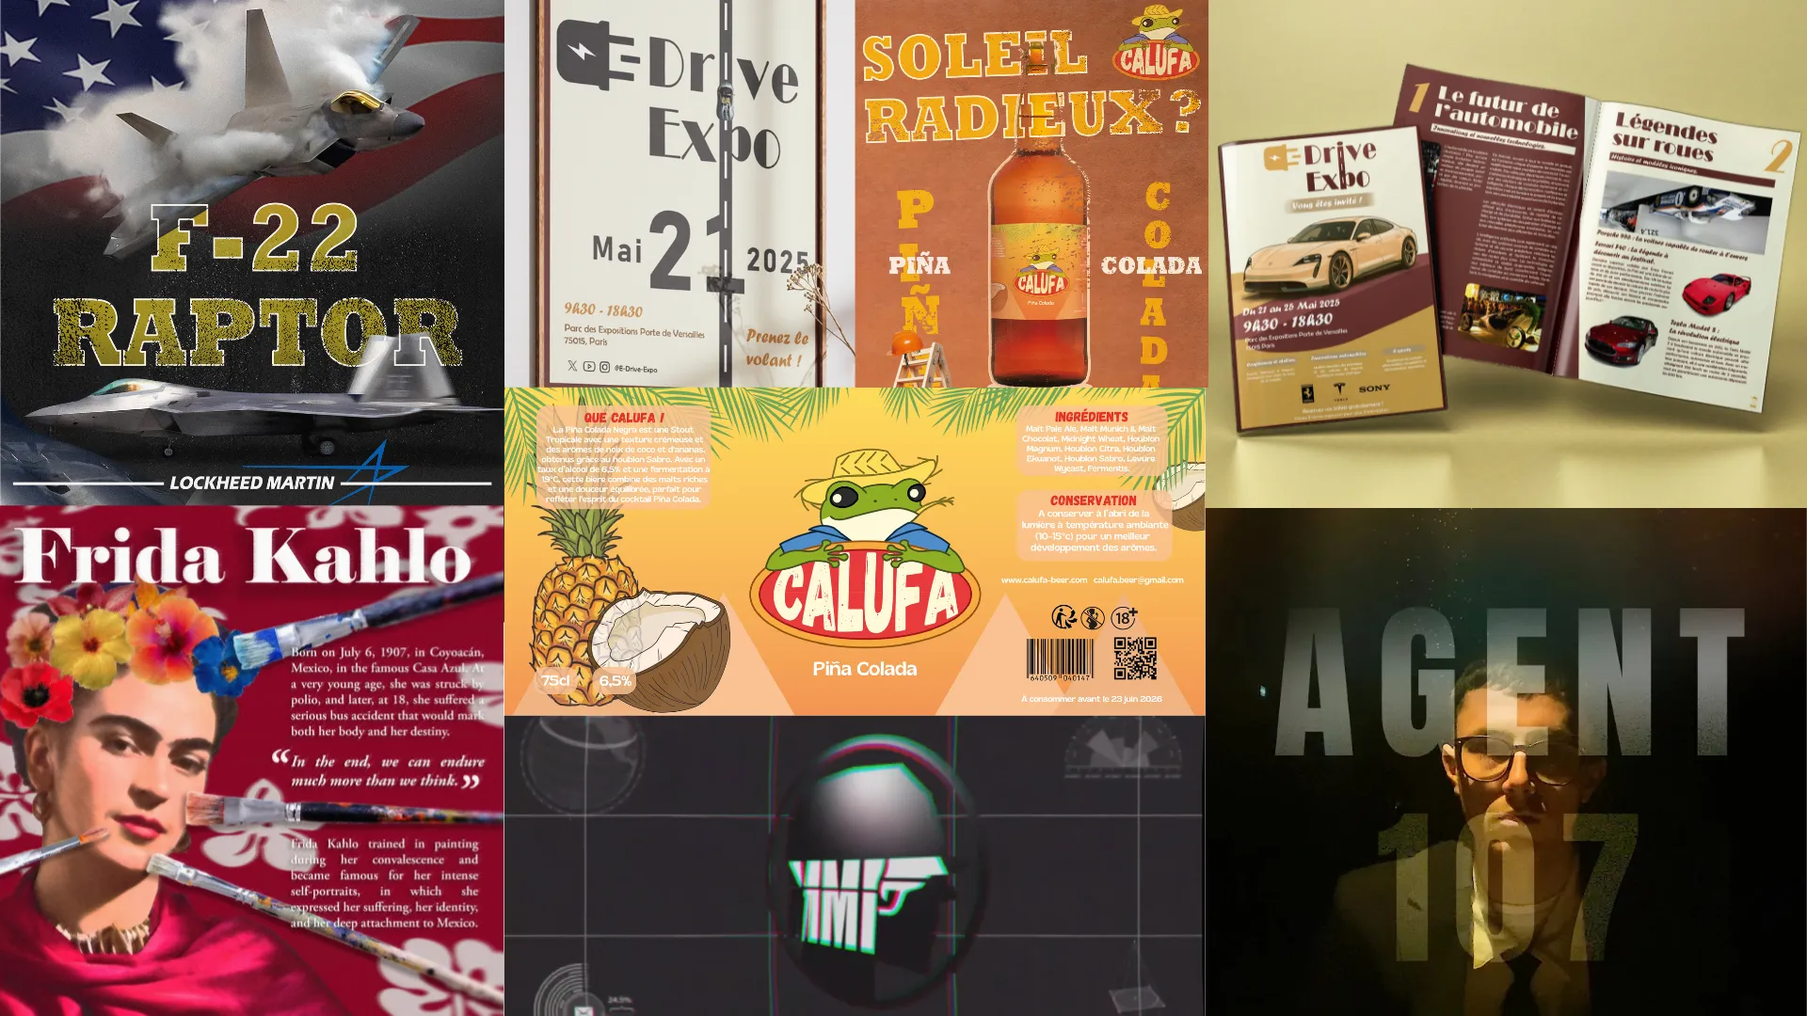
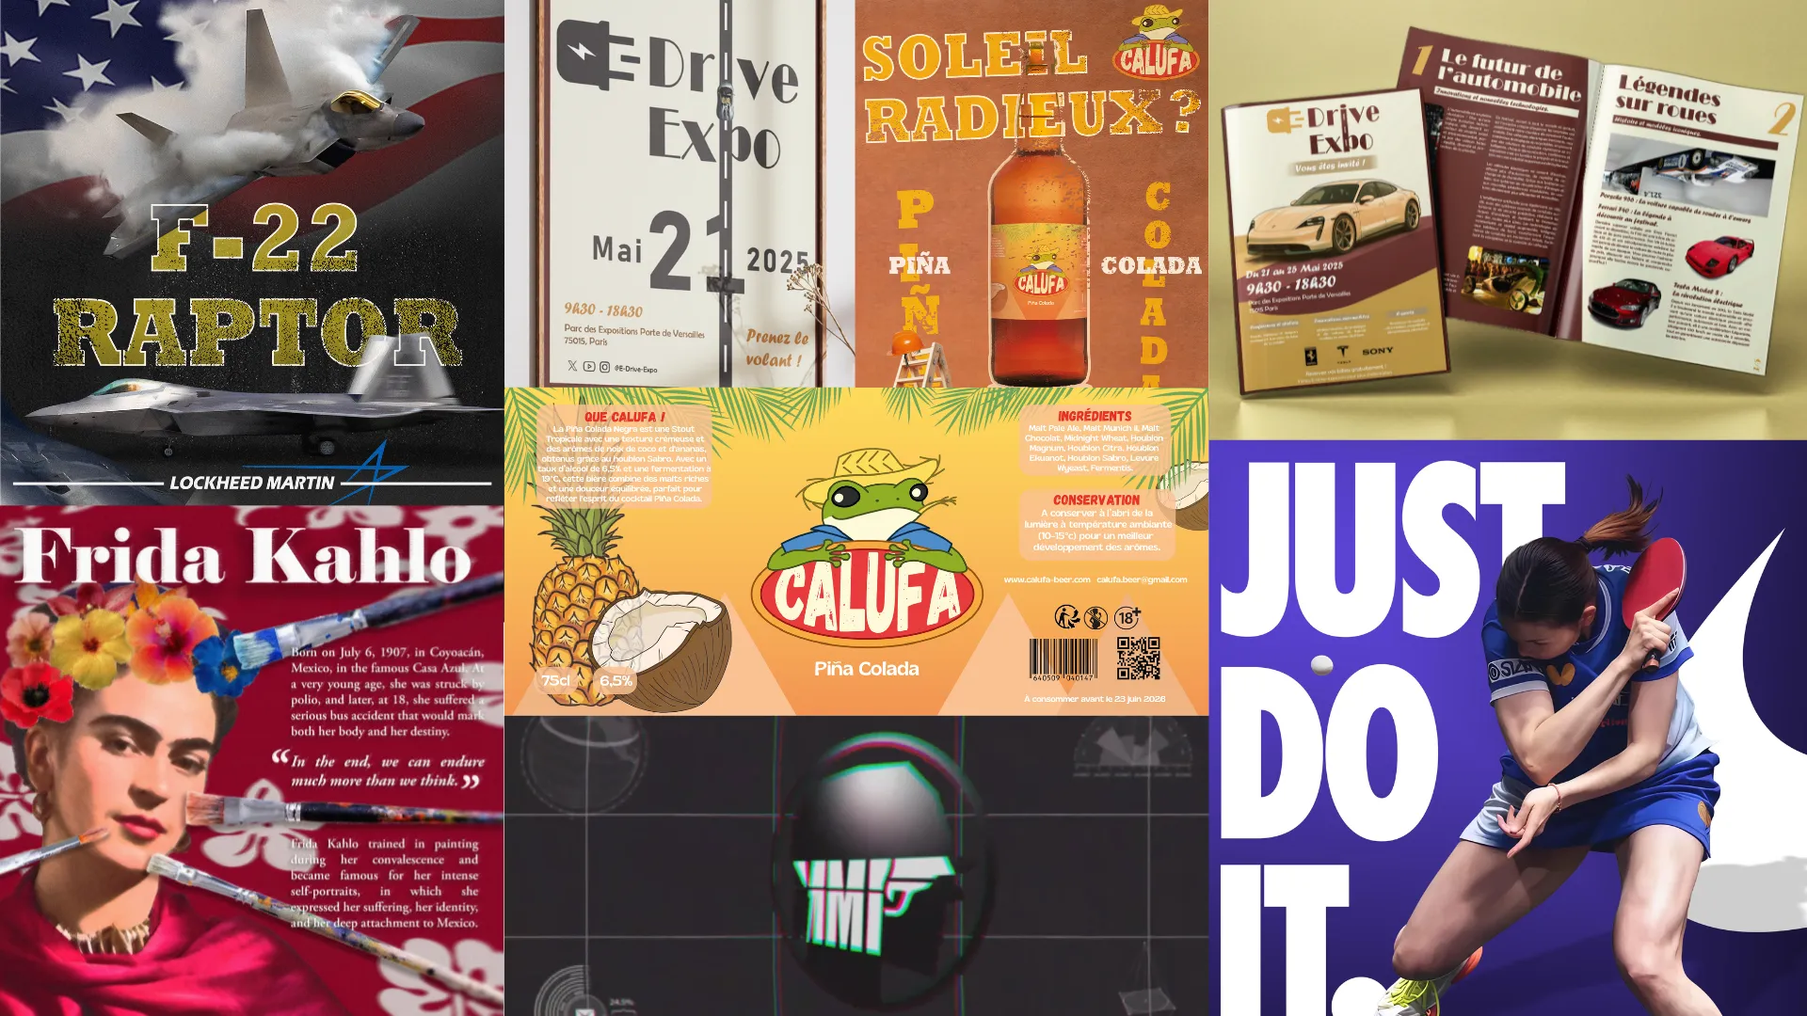
Update

diff --git a/index.html b/index.html
@@ -296,168 +296,219 @@
 
             <div class="grid sm:grid-cols-2 lg:grid-cols-3 gap-4 md:gap-6">
 
-                <div class="group relative aspect-[4/5] sm:aspect-[3/4] overflow-hidden cursor-pointer rounded-sm border border-white/5 fade-up"
+                <div class="group relative aspect-[100/141] overflow-hidden cursor-pointer rounded-sm border border-white/5 fade-up"
                     style="will-change: transform, opacity;" onclick="openImageModal('images/affiche_f22raptor.webp')">
 
                     <img src="images/affiche_f22raptor.webp" alt="F-22 Raptor poster"
-                        class="w-full h-full object-cover object-[center_0%] transition-transform duration-700 opacity-90 group-hover:opacity-100">
+                        class="w-full h-full object-cover object-[center_0%] transition-opacity duration-700 opacity-90 group-hover:opacity-100">
 
-                    <div class="absolute inset-0 bg-gradient-to-t from-black via-black/20 to-transparent opacity-90">
-                    </div>
+                    <div class="absolute inset-0 bg-gradient-to-t from-black via-black/20 to-transparent 
+                opacity-0 group-hover:opacity-90 transition-opacity duration-500"></div>
 
                     <div class="absolute inset-0 p-6 md:p-8 flex flex-col justify-between">
-                        <div
-                            class="flex justify-between items-start opacity-0 group-hover:opacity-100 transition-all duration-500 -translate-y-4 group-hover:translate-y-0">
+
+                        <div class="flex justify-between items-start 
+                    opacity-0 group-hover:opacity-100 
+                    -translate-y-4 group-hover:translate-y-0 
+                    transition-all duration-500">
                             <span
-                                class="px-3 py-1 bg-white/10 backdrop-blur-md rounded-full text-[10px] uppercase tracking-widest text-white border border-white/10">2025</span>
+                                class="px-3 py-1 bg-white/10 backdrop-blur-md rounded-full text-[10px] uppercase tracking-widest text-white border border-white/10">
+                                2025
+                            </span>
                             <span
                                 class="iconify text-white rotate-45 group-hover:rotate-0 transition-transform duration-500"
                                 data-icon="lucide:arrow-up-right" data-width="20"></span>
                         </div>
 
-                        <div class="translate-y-4 group-hover:translate-y-0 transition-transform duration-500">
+                        <div class="opacity-0 group-hover:opacity-100 
+                    translate-y-4 group-hover:translate-y-0 
+                    transition-all duration-500">
                             <p class="text-red-500 text-[10px] md:text-xs font-mono uppercase tracking-widest mb-1">
-                                Affiche</p>
+                                Affiche
+                            </p>
                             <h3 class="text-lg md:text-2xl font-semibold text-white tracking-tight">F-22 Raptor</h3>
                         </div>
+
                     </div>
                 </div>
 
-                <div class="group relative aspect-[4/5] sm:aspect-[3/4] overflow-hidden cursor-pointer rounded-sm border border-white/5 fade-up"
+                <div class="group relative aspect-[100/141] overflow-hidden cursor-pointer rounded-sm border border-white/5 fade-up"
                     style="will-change: transform, opacity;" onclick="openImageModal('images/affiche_frida.webp')">
 
-                    <img src="images/affiche_frida.webp" alt="Frida Kahlo poster"
-                        class="w-full h-full object-cover object-[center_0%] transition-transform duration-700 opacity-90 group-hover:opacity-100">
+                    <img src="images/affiche_frida.webp" alt="Affiche Frida Kahlo"
+                        class="w-full h-full object-cover object-[center_0%] transition-opacity duration-700 opacity-90 group-hover:opacity-100">
 
-                    <div class="absolute inset-0 bg-gradient-to-t from-black via-black/20 to-transparent opacity-90">
-                    </div>
+                    <div class="absolute inset-0 bg-gradient-to-t from-black via-black/20 to-transparent 
+                opacity-0 group-hover:opacity-90 transition-opacity duration-500"></div>
 
                     <div class="absolute inset-0 p-6 md:p-8 flex flex-col justify-between">
-                        <div
-                            class="flex justify-between items-start opacity-0 group-hover:opacity-100 transition-all duration-500 -translate-y-4 group-hover:translate-y-0">
+
+                        <div class="flex justify-between items-start 
+                    opacity-0 group-hover:opacity-100 
+                    -translate-y-4 group-hover:translate-y-0 
+                    transition-all duration-500">
                             <span
-                                class="px-3 py-1 bg-white/10 backdrop-blur-md rounded-full text-[10px] uppercase tracking-widest text-white border border-white/10">2026</span>
+                                class="px-3 py-1 bg-white/10 backdrop-blur-md rounded-full text-[10px] uppercase tracking-widest text-white border border-white/10">
+                                2026
+                            </span>
                             <span
                                 class="iconify text-white rotate-45 group-hover:rotate-0 transition-transform duration-500"
                                 data-icon="lucide:arrow-up-right" data-width="20"></span>
                         </div>
 
-                        <div class="translate-y-4 group-hover:translate-y-0 transition-transform duration-500">
+                        <div class="opacity-0 group-hover:opacity-100 
+                    translate-y-4 group-hover:translate-y-0 
+                    transition-all duration-500">
                             <p class="text-red-500 text-[10px] md:text-xs font-mono uppercase tracking-widest mb-1">
-                                Affiche</p>
+                                Affiche
+                            </p>
                             <h3 class="text-lg md:text-2xl font-semibold text-white tracking-tight">Frida Kahlo</h3>
                         </div>
                     </div>
                 </div>
 
-                <div class="group relative aspect-[4/5] sm:aspect-[3/4] overflow-hidden cursor-pointer rounded-sm border border-white/5 fade-up"
-                    style="will-change: transform, opacity;" onclick="openVideoModal('YqXMrFlvo8U')">
+                <div class="group relative aspect-[100/141] overflow-hidden cursor-pointer rounded-sm border border-white/5 fade-up"
+                    style="will-change: transform, opacity;" onclick="openImageModal('images/affiche_pingpong.webp')">
 
-                    <video autoplay loop muted playsinline preload="none" loading="lazy" class="absolute top-1/2 left-1/2 w-full h-full object-cover -translate-x-1/2 -translate-y-1/2">
-                        <source src="images/bandemissionp.mp4" type="video/mp4">
-                    </video>
+                    <img src="images/affiche_pingpong.webp" alt="Affiche Just do it"
+                        class="w-full h-full object-cover object-[center_0%] transition-opacity duration-700 opacity-90 group-hover:opacity-100">
 
-                    <div class="absolute inset-0 bg-gradient-to-t from-black via-black/20 to-transparent opacity-90">
-                    </div>
+                    <div class="absolute inset-0 bg-gradient-to-t from-black via-black/20 to-transparent 
+                opacity-0 group-hover:opacity-90 transition-opacity duration-500"></div>
 
                     <div class="absolute inset-0 p-6 md:p-8 flex flex-col justify-between">
-                        <div
-                            class="flex justify-between items-start opacity-0 group-hover:opacity-100 transition-all duration-500 -translate-y-4 group-hover:translate-y-0">
+
+                        <div class="flex justify-between items-start 
+                    opacity-0 group-hover:opacity-100 
+                    -translate-y-4 group-hover:translate-y-0 
+                    transition-all duration-500">
                             <span
-                                class="px-3 py-1 bg-white/10 backdrop-blur-md rounded-full text-[10px] uppercase tracking-widest text-white border border-white/10">2026</span>
+                                class="px-3 py-1 bg-white/10 backdrop-blur-md rounded-full text-[10px] uppercase tracking-widest text-white border border-white/10">
+                                2026
+                            </span>
                             <span
                                 class="iconify text-white rotate-45 group-hover:rotate-0 transition-transform duration-500"
                                 data-icon="lucide:arrow-up-right" data-width="20"></span>
                         </div>
 
-                        <div class="translate-y-4 group-hover:translate-y-0 transition-transform duration-500">
+                        <div class="opacity-0 group-hover:opacity-100 
+                    translate-y-4 group-hover:translate-y-0 
+                    transition-all duration-500">
                             <p class="text-red-500 text-[10px] md:text-xs font-mono uppercase tracking-widest mb-1">
-                                Bande annonce</p>
+                                Affiche
+                            </p>
+                            <h3 class="text-lg md:text-2xl font-semibold text-white tracking-tight">JUST DO IT</h3>
+                        </div>
+                    </div>
+                </div>
+
+                <div class="group relative aspect-[100/141] overflow-hidden cursor-pointer rounded-sm border border-white/5 fade-up"
+                    style="will-change: transform, opacity;" onclick="openImageModal('images/affiche_calufa.webp')">
+
+                    <img src="images/affiche_calufa.webp" alt="Affiche CALUFA"
+                        class="w-full h-full object-cover object-[center_0%] transition-opacity duration-700 opacity-90 group-hover:opacity-100">
+
+                    <div class="absolute inset-0 bg-gradient-to-t from-black via-black/20 to-transparent 
+                opacity-0 group-hover:opacity-90 transition-opacity duration-500"></div>
+
+                    <div class="absolute inset-0 p-6 md:p-8 flex flex-col justify-between">
+
+                        <div class="flex justify-between items-start 
+                    opacity-0 group-hover:opacity-100 
+                    -translate-y-4 group-hover:translate-y-0 
+                    transition-all duration-500">
+                            <span
+                                class="px-3 py-1 bg-white/10 backdrop-blur-md rounded-full text-[10px] uppercase tracking-widest text-white border border-white/10">
+                                2025
+                            </span>
+                            <span
+                                class="iconify text-white rotate-45 group-hover:rotate-0 transition-transform duration-500"
+                                data-icon="lucide:arrow-up-right" data-width="20"></span>
+                        </div>
+
+                        <div class="opacity-0 group-hover:opacity-100 
+                    translate-y-4 group-hover:translate-y-0 
+                    transition-all duration-500">
+                            <p class="text-red-500 text-[10px] md:text-xs font-mono uppercase tracking-widest mb-1">
+                                Affiche
+                            </p>
+                            <h3 class="text-lg md:text-2xl font-semibold text-white tracking-tight">CALUFA</h3>
+                        </div>
+                    </div>
+                </div>
+
+                <div class="group relative aspect-[100/141] overflow-hidden cursor-pointer rounded-sm border border-white/5 fade-up"
+                    style="will-change: transform, opacity;" onclick="openVideoModal('YqXMrFlvo8U')">
+
+                    <video autoplay loop muted playsinline preload="none" loading="lazy"
+                        class="w-full h-full object-cover">
+                        <source src="images/bandemissionp.mp4" type="video/mp4">
+                    </video>
+
+                    <div class="absolute inset-0 bg-gradient-to-t from-black via-black/20 to-transparent 
+                opacity-0 group-hover:opacity-90 transition-opacity duration-500"></div>
+
+                    <div class="absolute inset-0 p-6 md:p-8 flex flex-col justify-between">
+
+                        <div class="flex justify-between items-start 
+                    opacity-0 group-hover:opacity-100 
+                    -translate-y-4 group-hover:translate-y-0 
+                    transition-all duration-500">
+                            <span
+                                class="px-3 py-1 bg-white/10 backdrop-blur-md rounded-full text-[10px] uppercase tracking-widest text-white border border-white/10">
+                                2026
+                            </span>
+                            <span
+                                class="iconify text-white rotate-45 group-hover:rotate-0 transition-transform duration-500"
+                                data-icon="lucide:arrow-up-right" data-width="20"></span>
+                        </div>
+
+                        <div class="opacity-0 group-hover:opacity-100 
+                    translate-y-4 group-hover:translate-y-0 
+                    transition-all duration-500">
+                            <p class="text-red-500 text-[10px] md:text-xs font-mono uppercase tracking-widest mb-1">
+                                Bande annonce
+                            </p>
                             <h3 class="text-lg md:text-2xl font-semibold text-white tracking-tight">Mission Possible
                             </h3>
                         </div>
                     </div>
                 </div>
 
-                <div class="group relative aspect-[4/5] sm:aspect-[3/4] overflow-hidden cursor-pointer rounded-sm border border-white/5 fade-up"
-                    style="will-change: transform, opacity;" onclick="openImageModal('images/affiche_calufa.webp')">
-
-                    <img src="images/affiche_calufa.webp" alt="CALUFA advertisement poster"
-                        class="w-full h-full object-cover object-[center_0%] transition-transform duration-700 opacity-90 group-hover:opacity-100">
-
-                    <div class="absolute inset-0 bg-gradient-to-t from-black via-black/20 to-transparent opacity-90">
-                    </div>
-
-                    <div class="absolute inset-0 p-6 md:p-8 flex flex-col justify-between">
-                        <div
-                            class="flex justify-between items-start opacity-0 group-hover:opacity-100 transition-all duration-500 -translate-y-4 group-hover:translate-y-0">
-                            <span
-                                class="px-3 py-1 bg-white/10 backdrop-blur-md rounded-full text-[10px] uppercase tracking-widest text-white border border-white/10">2025</span>
-                            <span
-                                class="iconify text-white rotate-45 group-hover:rotate-0 transition-transform duration-500"
-                                data-icon="lucide:arrow-up-right" data-width="20"></span>
-                        </div>
-
-                        <div class="translate-y-4 group-hover:translate-y-0 transition-transform duration-500">
-                            <p class="text-red-500 text-[10px] md:text-xs font-mono uppercase tracking-widest mb-1">
-                                Affiche publicitaire</p>
-                            <h3 class="text-lg md:text-2xl font-semibold text-white tracking-tight">CALUFA</h3>
-                        </div>
-                    </div>
-                </div>
-
-                <div class="group relative aspect-[3/4] overflow-hidden cursor-pointer rounded-sm border border-white/5 fade-up"
+                <div class="group relative aspect-[100/141] overflow-hidden cursor-pointer rounded-sm border border-white/5 fade-up"
                     style="will-change: transform, opacity;" onclick="openVideoModal('WwRvsXP8ISg')">
 
-                    <video autoplay loop muted playsinline preload="none" loading="lazy" class="absolute top-1/2 left-1/2 w-full h-full object-cover -translate-x-1/2 -translate-y-1/2">
+                    <video autoplay loop muted playsinline preload="none" loading="lazy"
+                        class="w-full h-full object-cover">
                         <source src="images/interviewgoat.mp4" type="video/mp4">
                     </video>
 
-                    <div class="absolute inset-0 bg-gradient-to-t from-black via-black/20 to-transparent opacity-90">
-                    </div>
+                    <div class="absolute inset-0 bg-gradient-to-t from-black via-black/20 to-transparent 
+                opacity-0 group-hover:opacity-90 transition-opacity duration-500"></div>
 
                     <div class="absolute inset-0 p-6 md:p-8 flex flex-col justify-between">
-                        <div
-                            class="flex justify-between items-start opacity-0 group-hover:opacity-100 transition-all duration-500 -translate-y-4 group-hover:translate-y-0">
+
+                        <div class="flex justify-between items-start 
+                    opacity-0 group-hover:opacity-100 
+                    -translate-y-4 group-hover:translate-y-0 
+                    transition-all duration-500">
                             <span
-                                class="px-3 py-1 bg-white/10 backdrop-blur-md rounded-full text-[10px] uppercase tracking-widest text-white border border-white/10">2026</span>
+                                class="px-3 py-1 bg-white/10 backdrop-blur-md rounded-full text-[10px] uppercase tracking-widest text-white border border-white/10">
+                                2026
+                            </span>
                             <span
                                 class="iconify text-white rotate-45 group-hover:rotate-0 transition-transform duration-500"
                                 data-icon="lucide:arrow-up-right" data-width="20"></span>
                         </div>
 
-                        <div class="translate-y-4 group-hover:translate-y-0 transition-transform duration-500">
+                        <div class="opacity-0 group-hover:opacity-100 
+                    translate-y-4 group-hover:translate-y-0 
+                    transition-all duration-500">
                             <p class="text-red-500 text-[10px] md:text-xs font-mono uppercase tracking-widest mb-1">
-                                Interview</p>
+                                Interview
+                            </p>
                             <h3 class="text-lg md:text-2xl font-semibold text-white tracking-tight">Qui est le GOAT ?
                             </h3>
-                        </div>
-                    </div>
-                </div>
-
-                <div class="group relative aspect-[4/5] sm:aspect-[3/4] overflow-hidden cursor-pointer rounded-sm border border-white/5 fade-up"
-                    style="will-change: transform, opacity;" onclick="openImageModal('images/mockup_driveexpo4.webp')">
-
-                    <img src="images/mockup_driveexpo4.webp" alt="E-Drive Expo magazine mockup"
-                        class="w-full h-full object-cover transition-transform duration-700 opacity-90 group-hover:opacity-100">
-
-                    <div class="absolute inset-0 bg-gradient-to-t from-black via-black/20 to-transparent opacity-90">
-                    </div>
-
-                    <div class="absolute inset-0 p-6 md:p-8 flex flex-col justify-between">
-                        <div
-                            class="flex justify-between items-start opacity-0 group-hover:opacity-100 transition-all duration-500 -translate-y-4 group-hover:translate-y-0">
-                            <span
-                                class="px-3 py-1 bg-white/10 backdrop-blur-md rounded-full text-[10px] uppercase tracking-widest text-white border border-white/10">2025</span>
-                            <span
-                                class="iconify text-white rotate-45 group-hover:rotate-0 transition-transform duration-500"
-                                data-icon="lucide:arrow-up-right" data-width="20"></span>
-                        </div>
-
-                        <div class="translate-y-4 group-hover:translate-y-0 transition-transform duration-500">
-                            <p class="text-red-500 text-[10px] md:text-xs font-mono uppercase tracking-widest mb-1">
-                                Magazine</p>
-                            <h3 class="text-lg md:text-2xl font-semibold text-white tracking-tight">E-Drive Expo</h3>
                         </div>
                     </div>
                 </div>
@@ -475,7 +526,6 @@
                         data-width="16"></span>
                 </a>
             </div>
-
         </div>
     </section>
 

diff --git a/script2.js b/script2.js
@@ -2,25 +2,23 @@ const projectPages = {
     illustrations: `
         <div class="w-full grid grid-cols-1 md:grid-cols-2 gap-0">
 
-            <!-- Colonne 1 -->
             <div class="w-full h-full">
                 <img src="images/affiche_f22raptor.webp"
                      class="w-full h-full object-cover">
             </div>
 
-            <!-- Colonne 2 -->
             <div class="w-full h-full">
                 <img src="images/affiche_frida.webp"
                      class="w-full h-full object-cover">
             </div>
 
             <div class="w-full h-full">
-                <img src="images/affiche_calufa.webp"
+                <img src="images/affiche_pingpong.webp"
                      class="w-full h-full object-cover">
             </div>
 
             <div class="w-full h-full">
-                <img src="images/affiche_driveexpo3.webp"
+                <img src="images/affiche_calufa.webp"
                      class="w-full h-full object-cover">
             </div>
             
@@ -71,16 +69,6 @@ const projectPages = {
 
             <div class="w-full h-full">
                 <img src="images/livret_missionpossible2.webp"
-                     class="w-full h-full object-cover">
-            </div>
-
-            <div class="w-full h-full">
-                <img src="images/logo_missionpossible.webp"
-                     class="w-full h-full object-cover">
-            </div>
-
-            <div class="w-full h-full">
-                <img src="images/mockup_missionpossible.webp"
                      class="w-full h-full object-cover">
             </div>
         </div>
